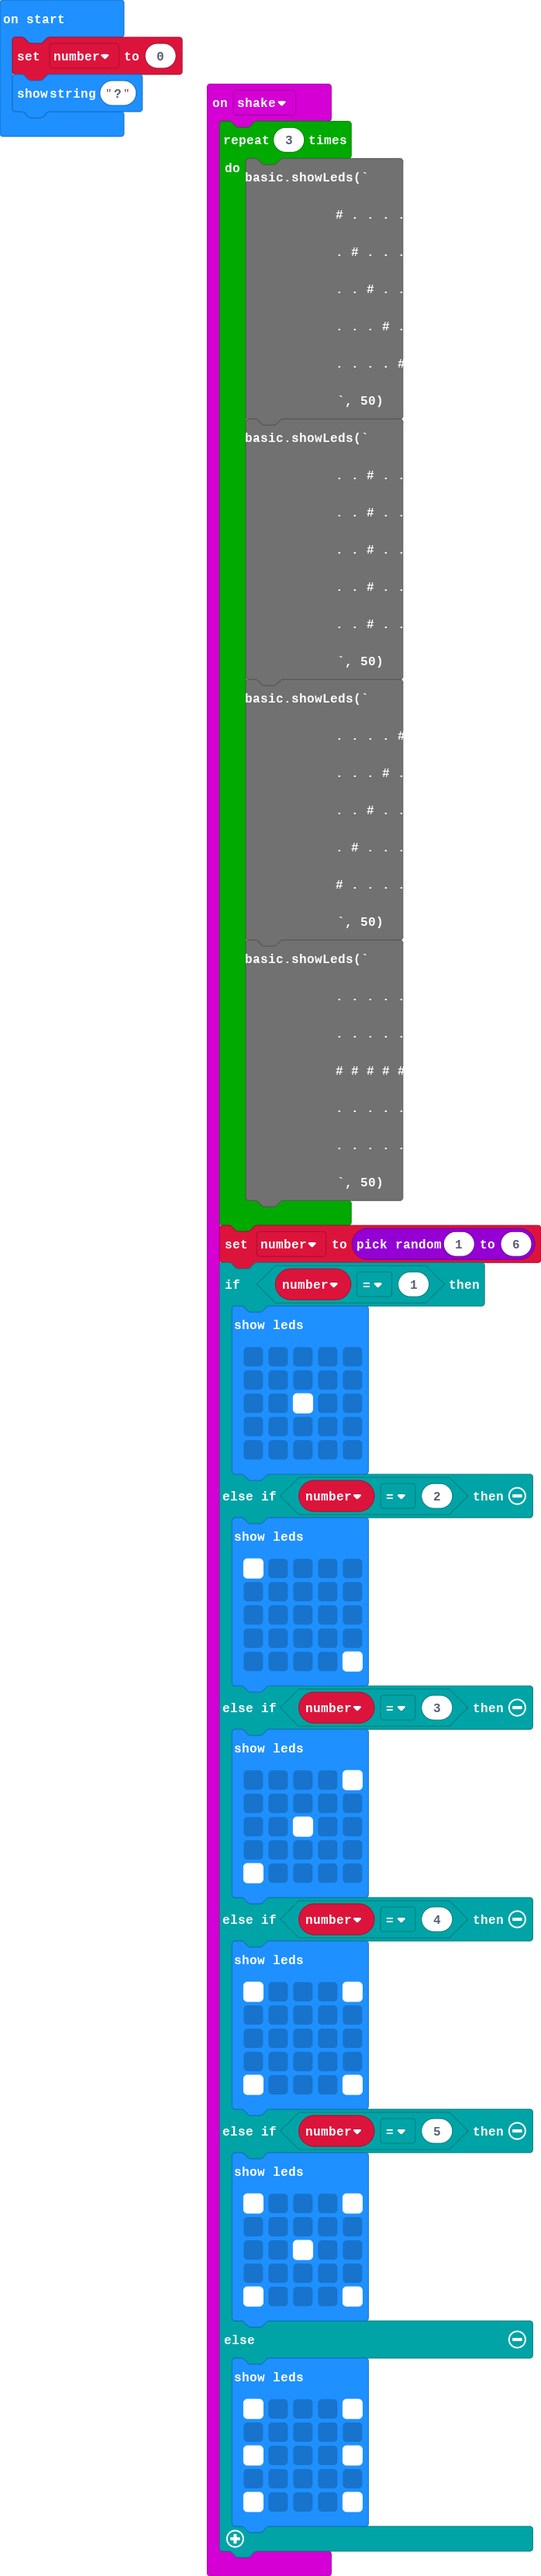
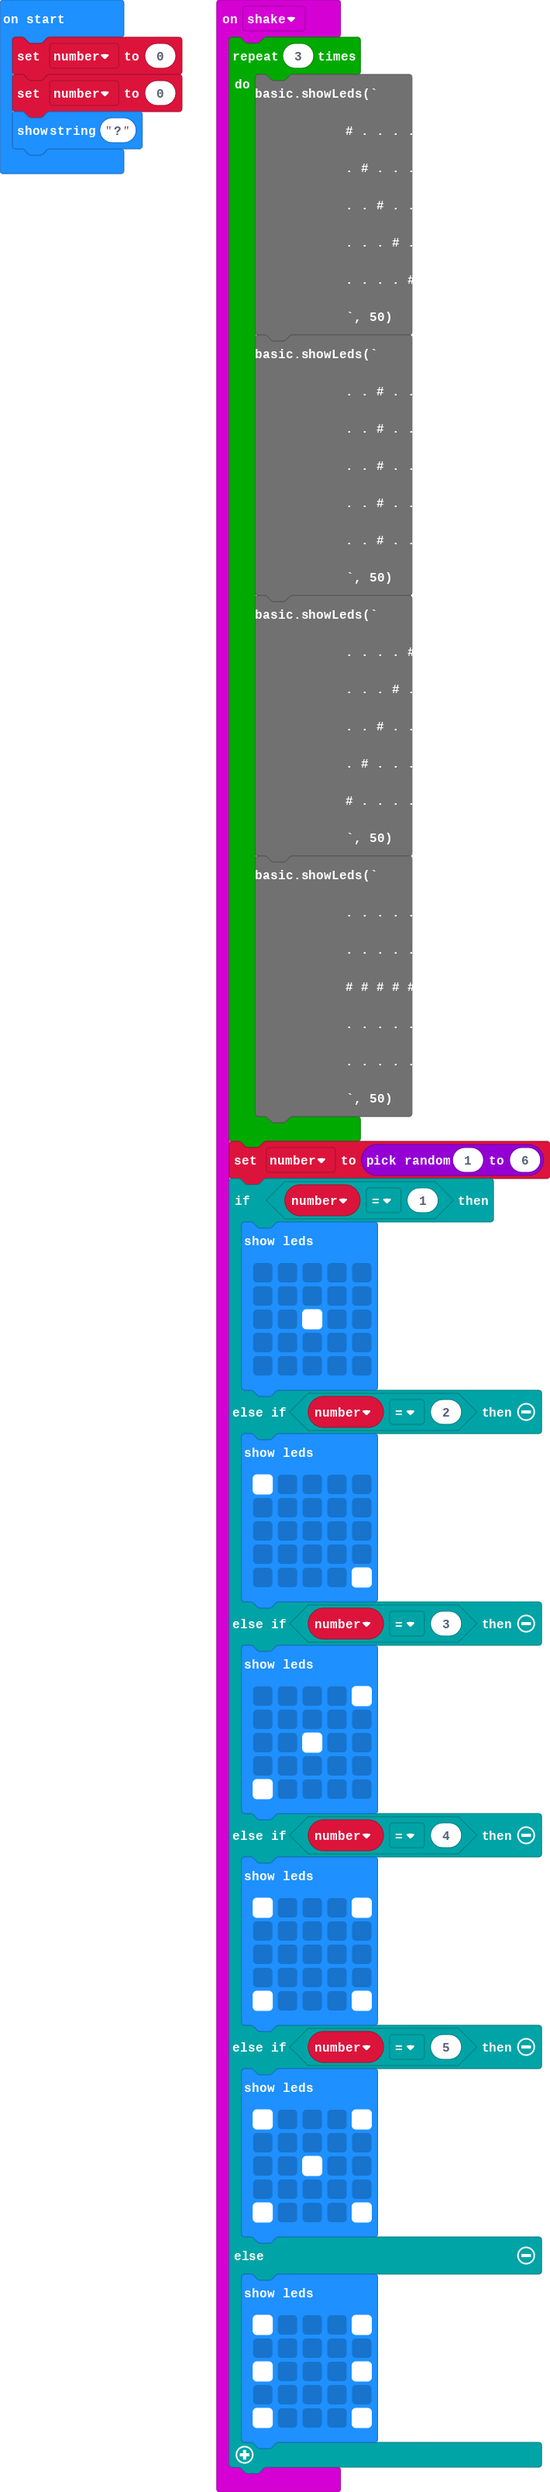
Revert "Removed spurious block"
This reverts commit 6e3691bb0db2e3123053fc9dff4f026e1328e866.

diff --git a/main.ts b/main.ts
@@ -82,4 +82,5 @@ basic.showLeds(`
 })
 let number = 0
 number = 0
+number = 0
 basic.showString("?")
